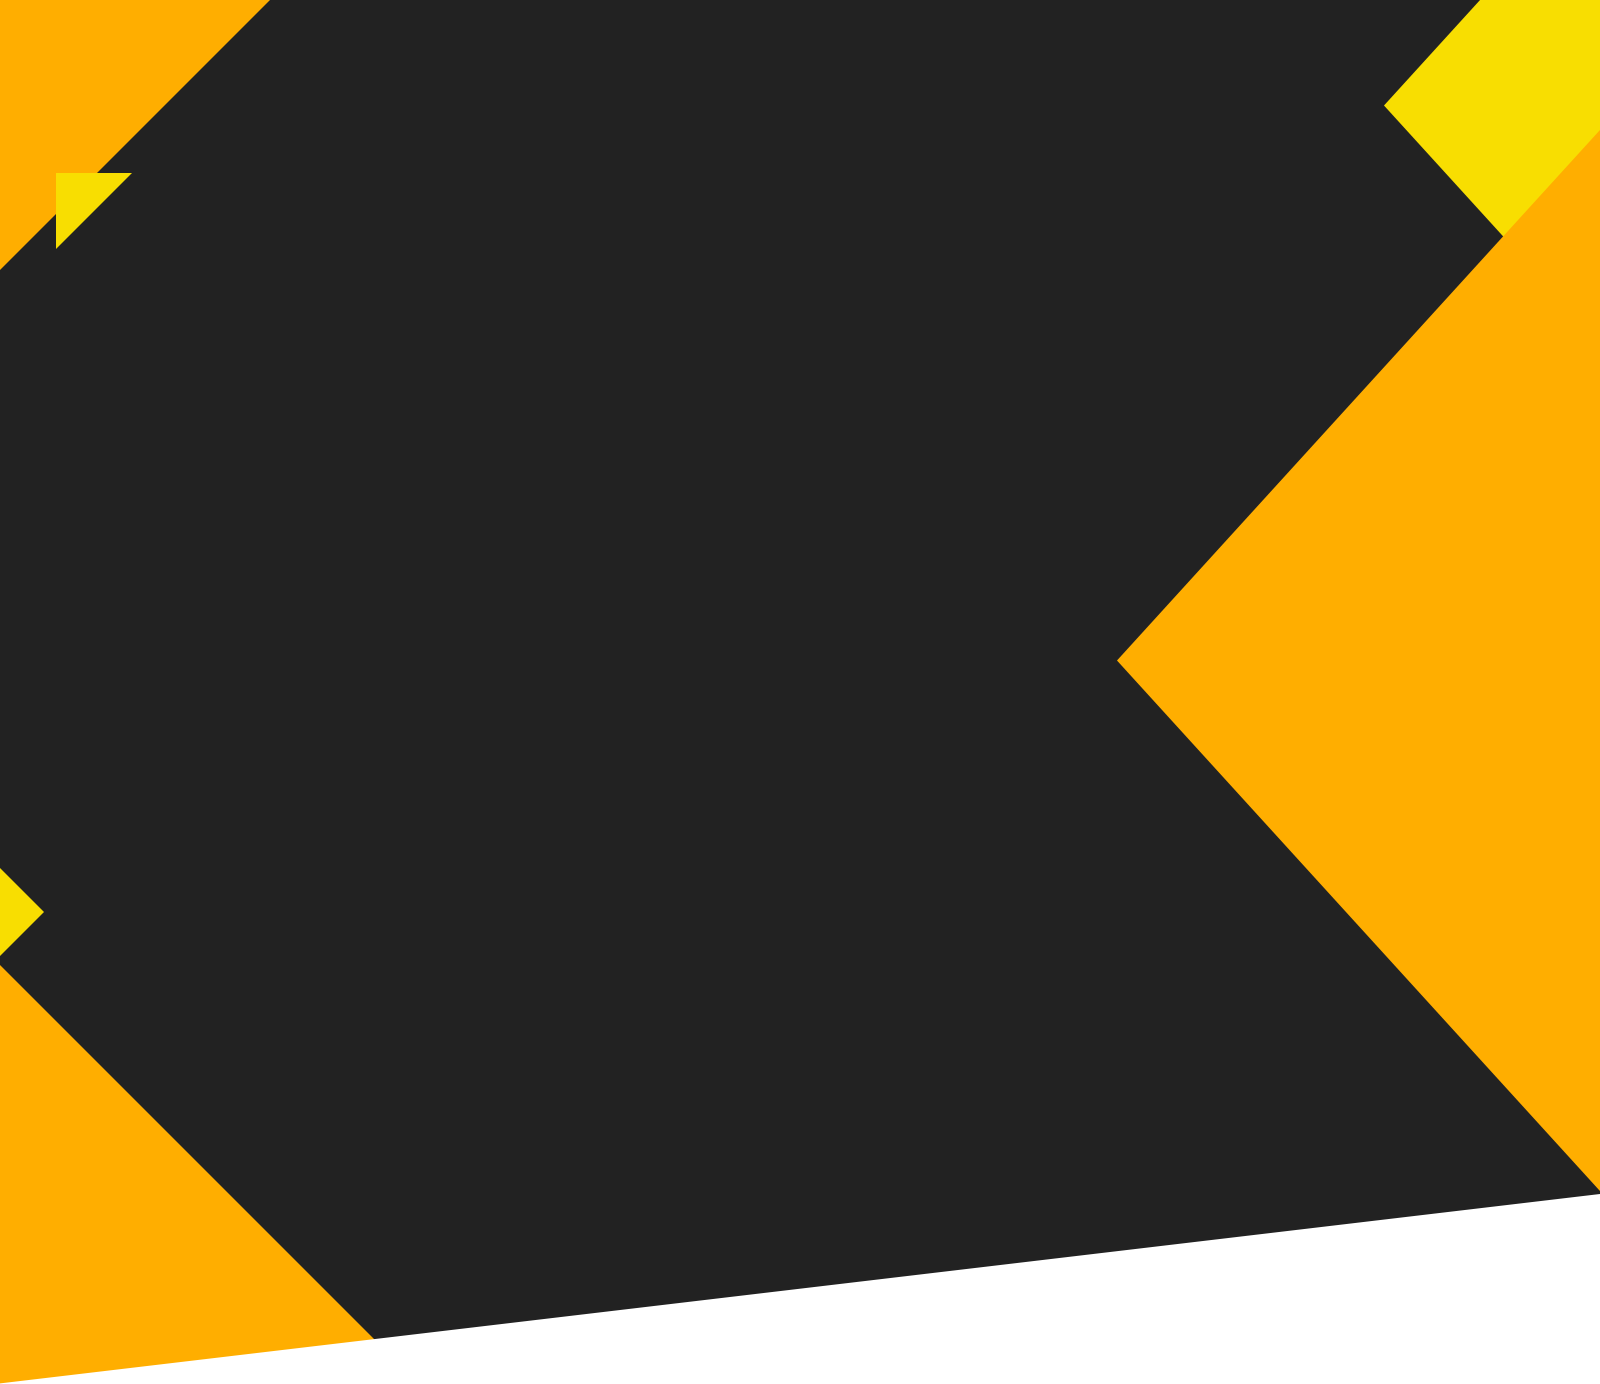
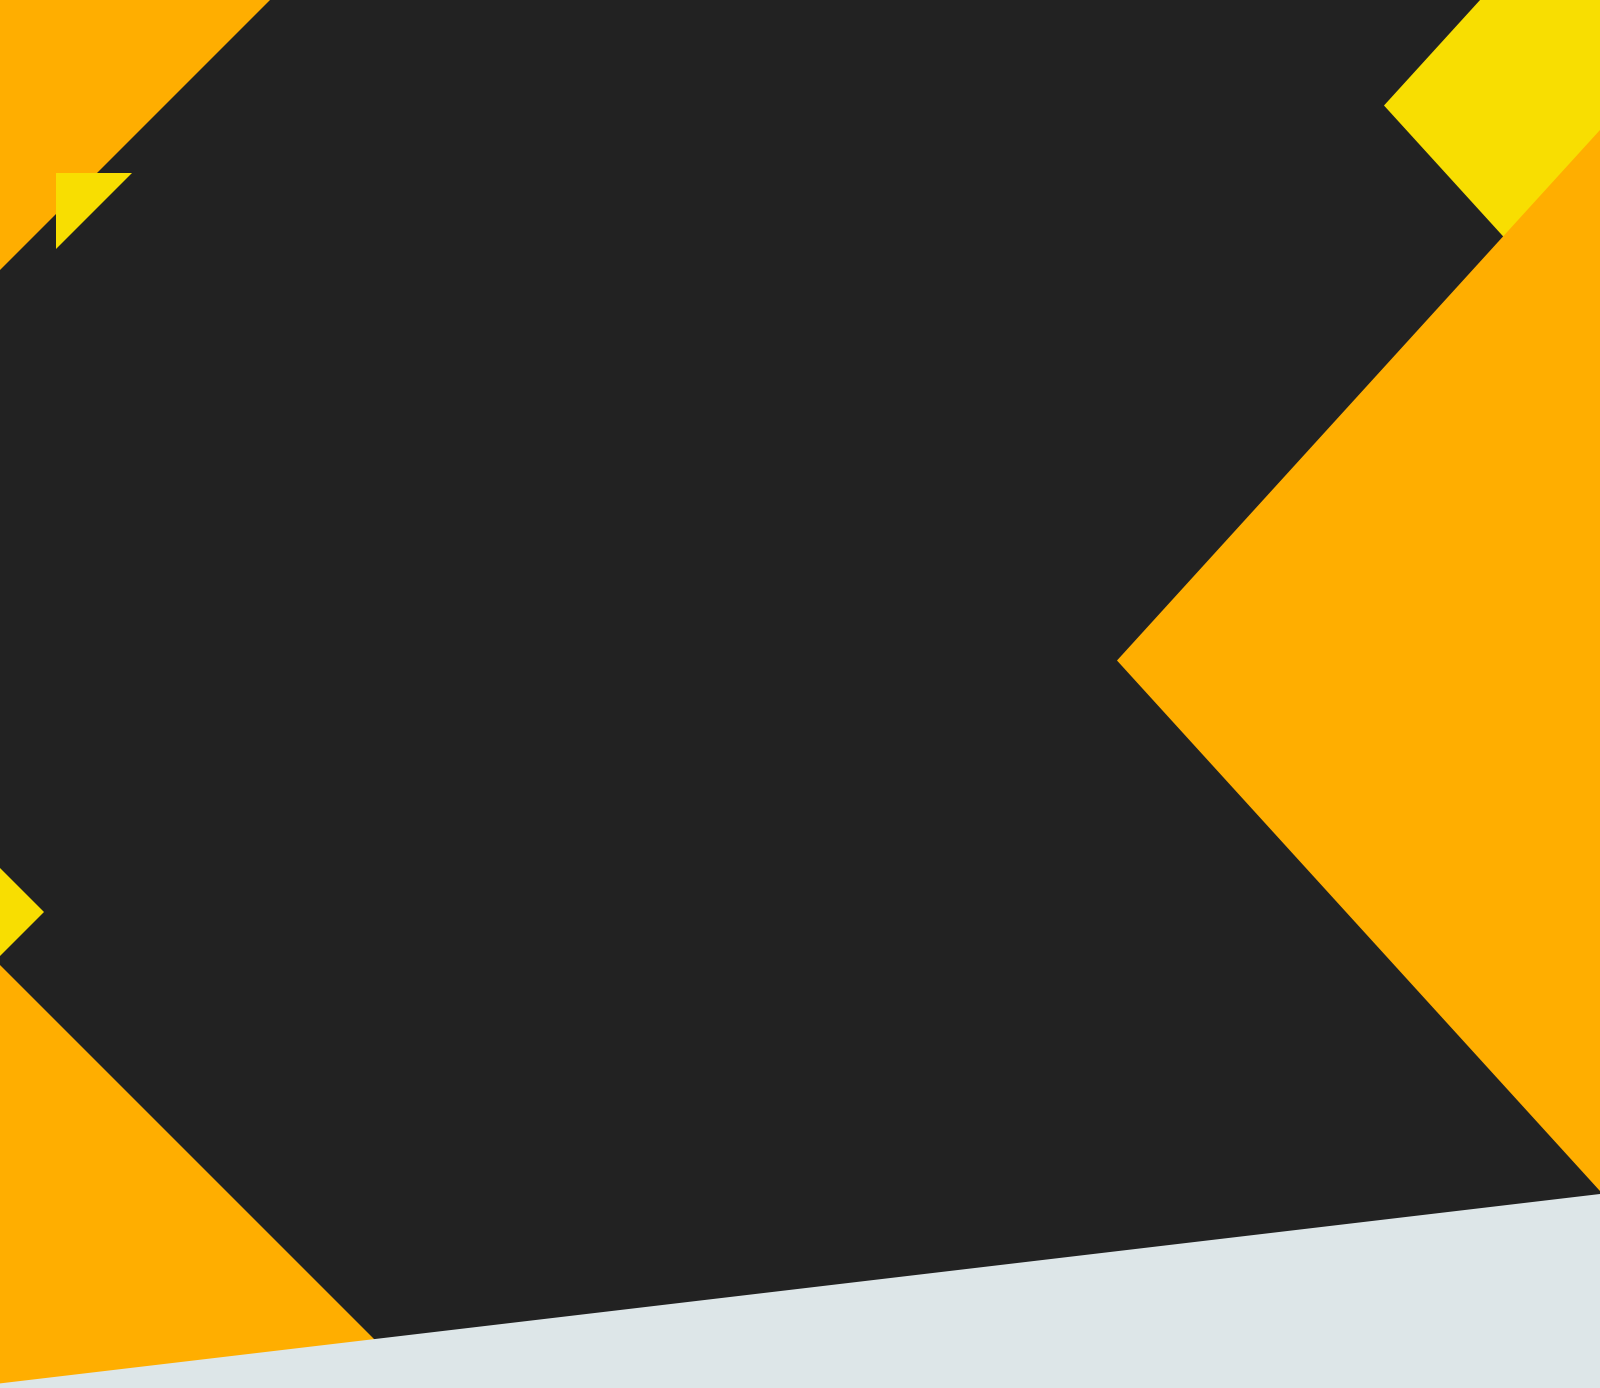
v1.3

Changed region(s): [[0.0, 0.8389, 1.0, 1.0]]

diff --git a/index.html b/index.html
@@ -14,12 +14,12 @@
             <div class="header__logo"><a href="#"><img src="img/logo.png" alt="logo"></a></div>
             <nav class="header__nav">
                 <ul class="header__list">
-                    <li class="header__item">home</li>
-                    <li class="header__item">company</li>
-                    <li class="header__item">sport stars</li>
-                    <li class="header__item">products</li>
-                    <li class="header__item">contact</li>
-                    <li class="header__item">buy now</li>
+                    <li class="header__item"><a href="#">home</a></li>
+                    <li class="header__item"><a href="#">company</a></li>
+                    <li class="header__item"><a href="#">sport stars</a></li>
+                    <li class="header__item"><a href="#">products</a></li>
+                    <li class="header__item"><a href="#">contact</a></li>
+                    <li class="header__item"><a href="#">buy now</a></li>
                 </ul>
             </nav>
         </div>       
@@ -51,7 +51,7 @@
                             <p>Lorem ipsum dolor sit amet 
                             consectetur adipisicing elit. 
                             </p>
-                            <a href="#">More</a>
+                            <a href="#" class="yellow">More</a>
                         </div>
                     </div>
                     <div class="services__item">
@@ -78,12 +78,63 @@
                             <p>Lorem ipsum dolor sit amet 
                             consectetur adipisicing elit. 
                             </p>
-                            <a href="#">More</a>
+                            <a href="#" class="yellow">More</a>
                         </div>
                     </div>
                 </div>
             </section>
-        </div>               
+        </div>
+        <section class="products">
+            <div class="container">
+                <h2>explore the newest products</h2>
+                <p>Lorem ipsum dolor sit, 
+                    amet consectetur adipisicing elit. 
+                    Et, quibusdam pariatur odit nisi 
+                    minus placeat tenetur quam ea similique 
+                    quo maiores excepturi id 
+                    commodi, error, culpa beatae consectetur tempore iure.
+                </p>
+                <div class="products__item">
+                    <div class="products__img">
+                        <img src="" alt="football boots">
+                        <div class="products__description">
+                            <div class="products__name">
+
+                            </div>
+                            <div class="products__price">
+
+                            </div>
+                        </div>
+                    </div>
+                </div>
+                <div class="products__item">
+                    <div class="products__img">
+                        <img src="" alt="t-shirt">
+                        <div class="products__description">
+                            <div class="products__name">
+
+                            </div>
+                            <div class="products__price">
+
+                            </div>
+                        </div>
+                    </div>
+                </div>
+                <div class="products__item">
+                    <div class="products__img">
+                        <img src="" alt="football boots">
+                        <div class="products__description">
+                            <div class="products__name">
+
+                            </div>
+                            <div class="products__price">
+
+                            </div>
+                        </div>
+                    </div>
+                </div>
+             </div>
+        </section>               
     </main>
     <footer class="footer"></footer>
 </body>

diff --git a/style.css b/style.css
@@ -1,3 +1,8 @@
+* {
+    padding: 0;
+    margin: 0;
+}
+
 html {
     font-family: 'Lemonada', cursive;
     font-size: 16px;
@@ -39,6 +44,14 @@ html {
 .header__list {
     display: flex;
     justify-content: space-around;
+}
+
+.header__list li {
+    list-style-type: none;
+}
+
+.header__list a {
+    text-decoration: none;
     color: #fff;
 }
 
@@ -119,12 +132,15 @@ html {
 }
 
 .services__item {
-    background: url(img/first-item.png) no-repeat;
-    background-size: cover;
-    background-position: center right;
     padding: 20px 40px;
     margin-bottom: 5.5%;
     width: 40%;
+}
+
+.services__item:nth-child(1) {
+    background: url(img/first-item.png) no-repeat;
+    background-size: cover;
+    background-position: center right;
 }
 
 .services__item:nth-child(2) {
@@ -165,25 +181,38 @@ html {
 .services a {
     font-size: 1.25rem;
     text-decoration: none;
-}
-
-.services a:nth-child(1) {
-    color: #fff;
-}
-
-.services a:nth-child(2) {
     color: #000;
 }
 
-.services a:nth-child(3) {
-    color: #000;
+.services a::after {
+    content: 'ᐅ';
+    padding-left: 15px;
 }
 
-.services a:nth-child(4) {
-    color: rgb(233, 229, 19);
+.services .yellow {
+    color: #f8de01;
 }
 
-.services a {
-    font-size: 1.25rem;
-    text-decoration: none;
+.products {
+    background-color: #dde6e8;
+    width: 2000px;
 }
+
+.products .container {
+    padding-top: 120px;
+}
+
+.products h2 {
+    font-size: 2.65rem;
+    font-weight: 700;
+    text-transform: uppercase;
+    text-align: center;
+
+    padding: 10px 0 22px;
+}
+
+.products p {
+    padding: 22px 85px 50px;
+    text-align: center;
+}
+
